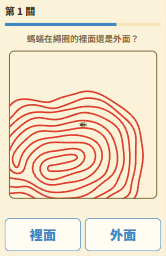
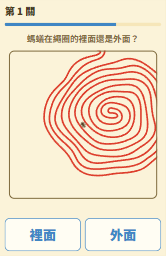
V1.57.1.0 新增 3 款（翻牌湊百、翻三湊百、瞬間識字），改版 3 款（半邊字、心跳複製、圈內圈外），反著滑整個畫面都能滑；翻牌湊十、湊百、翻三湊百加上時間限制，動態視力加上橫向模糊；全站按「返回」會先結算已經過的關卡。** 新增 3 款，共 **190 款**

Changed region(s): [[0.0602, 0.1875, 0.9639, 0.7812]]

diff --git a/GITHUB主要更新歷程.md b/GITHUB主要更新歷程.md
@@ -4,7 +4,7 @@
 > **只想看重點？讀完下面「快速看重點」三個小節就夠了**；想追某一個版本改了什麼，再往下捲到「完整版本更新紀錄」。
 > 玩法介紹、使用方式、開發工具請看 [README.md](README.md)。
 
-目前版本：**V1.56.0（2026-11-12）**　｜　從 2026-09-25 的 V0.1.0 到現在共 **92 個版本**　｜　遊戲 **187 款**
+目前版本：**V1.57.1.0（2026-11-13）**　｜　從 2026-09-25 的 V0.1.0 到現在共 **93 個版本**　｜　遊戲 **190 款**
 
 ---
 
@@ -18,7 +18,7 @@
 | 2. 題目產生器 | V1.3 ～ V1.11 | 09-26 ～ 09-30 | 「明明還記得...」改成**每一局題目都不同**的產生器，加上四大故事主軸（生日、旅遊、看病、聚餐）、跨關回想題、答錯說明與混淆類型分析。 |
 | 3. 秒反應誕生 | V1.12 ～ V1.19 | 09-30 ～ 10-07 | 新增第三個入口「秒反應」小遊戲，從 3 款長到 50 款；加上共用音效、**世界排行榜**。 |
 | 4. 爆量與社群功能 | V1.20 ～ V1.35 | 10-09 ～ 10-20 | 遊戲數 78 → 160 款；彈窗公版、全螢幕選單與分類頁籤、玩家意見、五星評價、「阿嬤都比你厲害」、**玩家帳號（暱稱＋密碼）**。 |
-| 5. 成熟營運 | V1.36 ～ V1.56 | 10-21 ～ 11-12 | **PWA（加到主畫面、離線也能玩）**、漢堡選單（設定／成績／離線管理）、後台資料分析頁、不限時的邏輯遊戲（深思篇、原創篇）、**干擾用動態背景**、動作遊戲（砲打飛機、草叢找動物、火箭回收），共 184 款（V1.43.1 刪除「按鍵搶三十」）。 |
+| 5. 成熟營運 | V1.36 ～ V1.57 | 10-21 ～ 11-13 | **PWA（加到主畫面、離線也能玩）**、漢堡選單（設定／成績／離線管理）、後台資料分析頁、不限時的邏輯遊戲（深思篇、原創篇）、**干擾用動態背景**、動作遊戲（砲打飛機、草叢找動物、火箭回收），共 190 款（V1.43.1 刪除「按鍵搶三十」）。 |
 
 ### 二、重要版本（時間軸）
 
@@ -74,6 +74,7 @@
 | **V1.54.0** | 11-11 | 依玩家意見調難度：**舉旗子**時間縮短、新增「對調」口令（一手放下、另一手同時舉起）；**門縫偷看**門縫分成上下 1～6 條、各條出發時間不同、有些從右往左、拿掉兩側咖啡色線。 |
 | **V1.55.0** | 11-12 | 依玩家意見修改 6 款：**反著滑**加入「藍色箭頭順著滑、紅色箭頭逆著滑」；**轉盤電話**每關多 1 碼、一行 10 個數字、看號碼時轉盤半透明；**心臟病**取消倒著數；**字的顏色**答對也顯示答案 2 秒；**切菜單上的**水果放大 200%、菜單框改畫面底色；**鏡中旋轉字**兩個參數改 `[第一關, 到頂]`；並重拍 6 款縮圖。 |
 | **V1.56.0** | 11-12 | 依玩家意見修改**六角著色**：三色、四色都不能再照「固定間隔」擺就解完；三色形狀不再是實心、答案挑最不像規律花樣的、預填分散到每一區並故意打破規律（唯一解是順便達成的）。 |
+| **V1.57.1.0** | 11-13 | 新增 3 款：**翻牌湊百**、**翻三湊百**（故意讓好幾組牌的尾數相同，防「只算尾數」投機）、**瞬間識字**（字閃一下，再從一排答案裡找出來）；**半邊字**改成旋轉的各種白色遮片、**心跳複製**改成 8 個圓的環＋整個畫面可點（成績意思改了）、**圈內圈外**改成指紋螺旋（螞蟻放在圓心與最外圍的正中間）；**反著滑**整個畫面都能滑；翻牌湊十、湊百、翻三湊百加上時間限制；**動態視力**加橫向動態模糊；全站按「返回」先結算已過的關卡、進榜就寫入紀錄。共 **190 款**。 |
 
 ### 三、共用系統功能一覽（依功能分類，括號是首次出現的版本）
 
@@ -95,6 +96,7 @@
 | 搜尋 | 遊戲選單最右邊的「搜尋」：輸入遊戲名稱的一部分，格子就只留下符合的遊戲。 | V1.43 |
 | 干擾用動態背景 | 19 款遊戲的背景墊一層很淡的花紋（條紋／圓圈／螺紋／棋盤／六角形／圓點），慢慢移動或旋轉，略為干擾判斷；每款自己設定從第幾關開始出現；判定、揭曉時會先收起來。 | V1.44 |
 | 推薦彈窗 | 進選單時輪流跳：阿嬤都比你厲害（被超越的遊戲）／來都來了，快開一局（沒玩過或很久沒玩的）／從從容容、游刃有餘（你最擅長的遊戲）。 | V1.25、V1.39 |
+| 按「返回」先結算 | 玩到一半按「返回」，依已經完成的關卡結算：進世界前 30 名就先跳出進榜彈窗並寫入紀錄，破個人最佳也會記下來，不會因為臨時離開就失去成績。 | V1.57.1.0 |
 
 **排行榜、帳號與社群**
 
@@ -148,7 +150,8 @@
 | V1.43.1 | 11-02 | −1 | 181 | 刪除「按鍵搶三十」 |
 | V1.45.0 | 11-05 | 3 | 184 | 動作篇：砲打飛機、草叢找動物、火箭回收 |
 | V1.46.0 | 11-05 | 2 | 186 | 泡泡掃射、分類點擊 |
-| V1.50.0 | 11-08 | 1 | **187** | 六角著色 |
+| V1.50.0 | 11-08 | 1 | 187 | 六角著色 |
+| V1.57.1.0 | 11-13 | 3 | **190** | 翻牌湊百、翻三湊百、瞬間識字 |
 
 ### 五、發佈時要記得的事（營運備忘）
 
@@ -161,8 +164,46 @@
 ---
 
 ## 完整版本更新紀錄
-### V1.57.0（2026-11-13）
-修改小遊戲。
+
+### V1.57.1.0（2026-11-13）
+**新增 3 款（翻牌湊百、翻三湊百、瞬間識字），改版 3 款（半邊字、心跳複製、圈內圈外），反著滑整個畫面都能滑；翻牌湊十、湊百、翻三湊百加上時間限制，動態視力加上橫向模糊；全站按「返回」會先結算已經過的關卡。** 新增 3 款，共 **190 款**（原本 187 款）。這個版本涵蓋 V1.56.0 之後的全部改動（V1.57.0 提交時只寫了「修改小遊戲」，沒有詳細紀錄，所以一併記在這裡）。
+
+- **★ 你要做的事**：
+  - 發佈時 `version.json` 要升到 1.57.1.0（Service Worker 版本相同就直接用備份，沒升版號回訪玩家拿不到新檔）。這次的版號是四段（以前都是三段）；想改成 1.57.1，改 `version.json` 和這份文件的標題就好。
+  - **新增了 3 款遊戲**：到 Supabase 的 SQL Editor 重新執行整份 `supabase/MF_leaderboard.sql`（可重複執行，既有成績不受影響），不然這 3 款的成績送不上榜。
+  - **心跳複製的成績意思變了**（原本是「撐過幾拍」，現在是「正確點擊幾下」）：舊榜單的高分要清掉，見 [`note/世界排行榜說明.md`](note/世界排行榜說明.md)（裡面心跳複製那一列還是舊寫法，我沒改）。半邊字、圈內圈外、反著滑的成績意思沒變，但規則或難度變了，舊高分之後會比較難超過，要不要清由你決定。
+- **新遊戲・翻牌湊百**（`flipcent`，玩家意見：翻牌湊十的進階版，兩張加起來 100）：
+  - 數字牌 1～99 蓋著排成方陣，每次翻兩張，**加起來 100 就消掉**，不是就蓋回去；翻牌次數有上限（「完美記憶策略」要翻的次數 ＋ 寬限 `SLACK`）。
+  - **防「只算尾數」的投機**：兩張加起來是 100，尾數一定是 1＋9、2＋8、3＋7、4＋6、5＋5、0＋0，只看尾數就猜得到誰跟誰一組。所以牌多的時候故意讓好幾組的尾數相同（例如 43＋57、63＋37、23＋77，只看尾數會湊到 63＋57＝120）。參數 `GROUP`＝每一種尾數組放幾組牌，第 1 關 1、到頂 8；同一個尾數組裡，十位數也要加起來才分得出來（`makePairDeck`）。
+  - 6 張起每關加 2 張，最多 48 張；其餘規則同翻牌湊十（盡量不讓湊成 100 的兩張相鄰 `KEEP_ADJ_P`、翻錯露出 `SHOW_MS`）。
+- **新遊戲・翻三湊百**（`flip3cent`）：規則同上，但**每次翻三張、三張加起來 100**。非常困難：沒辦法只靠尾數投機，而且一次要記三張，**翻錯露出的時間是翻牌湊百的三倍**（`SHOW_K` 3，1.5 → 4.5 秒）。出題保證整副牌裡「三張加起來 100」的組合只有預定的那幾組（`makeTripleDeck`；不然玩家翻到碰巧湊成 100 的別組，消掉之後剩下的牌可能再也湊不出 100），這個保證在 24 張以上做不到，所以最多 18 張（6 組）。兩款共用新檔 `js/flipsum_core.js`（`Reaction.flipSum`）。
+- **翻牌湊十、湊百、翻三湊百：時間限制、牌高參數**（玩家意見）：
+  - **每關有時間限制**，給得很寬鬆：`TIME_S`，第 1 關 1 分鐘（60 秒），隨關卡增加到第 30 關——翻牌湊十到 240 秒，湊百與翻三湊百到 300 秒。時間到還沒消完就失敗（顯示「時間到了！」，把剩下的牌翻開）。
+  - **答案格子的高度是參數**：`CARD_H`（牌高是牌寬的幾倍，預設 0.95；翻三湊百你目前調成 0.6）；牌多、列數多放不下時，會自動縮到所有列都放得進畫面。順手修掉翻三湊百 `STAGES` 多出的逗號（第 13 關起會當掉）。
+- **新遊戲・瞬間識字**（`blinkchar`，玩家意見）：白底上，在開局 3 秒內的某個不定時刻（`WAIT_S`），隨機位置閃出一個黑色中文字，字消失之後下方出現答案按鈕，點出剛剛閃過的是哪個字。難度參數格式都是 `[第 1 關, 到頂]`：字亮多久 `FLASH_MS`（到頂只亮 1 個畫面更新）、字的濃淡 `OPACITY`、字的大小 `SIZE`（畫面寬度的倍數）、答案按鈕數 `OPTIONS`、字的筆劃上限 `STROKES_MAX`、作答限時 `ANSWER_S`；選項優先挑「長得像」的字（共用字庫 `SimilarChars`）。
+  - **版面**（玩家意見）：題目框固定是正方形（邊長＝畫面寬度，`ZONE_RATIO`）；答案按鈕寬度固定是畫面寬度的 1/6（`OPT_COLS`），按鈕多了就換排、高度跟著調（盡量維持正方形）；作答之後，題目框的說明文字降到題目框下緣（`MSG_H`），不會壓到揭曉的正確答案字。
+- **半邊字**（`halfchar`，改規則）：原本是「用 CSS 遮住字的一半」，改成**不同形狀的白色遮片繞著字旋轉**（畫在 canvas）：切口比薩、條紋、黑白棋盤、波紋、螺旋、4～49 宮格的 emoji 方陣；每種形狀從第幾題開始出現是 `SHAPE_FROM`。難度三個因素：**空隙大小 `OPEN`**（露出越少越難）、**旋轉速度 `SPEED`**（太慢，空隙停在原地慢慢等它掃過就看全；太快，眼睛會把畫面疊起來反而認得出來，所以只加到「最難的速度」，每題上下隨機 `SPEED_JITTER`、方向也隨機）、**遮片五彩繽紛 `COLOR_P`**；emoji 方陣的格數 `EMOJI_N`。題庫、選項與揭曉說明「相似的是 X，關鍵是 Y」沿用。
+  - **題目字放大**（玩家意見）：字是畫面寬度的 90%（`CHAR_W`），畫布跟著撐大；標題兼做提示、時間條與選項的空隙縮小。
+  - **比薩改成多個切口**（玩家意見，`PIZZA_CUTS` 3 → 6 個）：總空隙平均分給每個切口、切口平均分布在圓盤上，不會因為轉速慢、只有一個窄切口慢慢掃過，而看不清全貌。
+- **心跳複製**（`heartbeat`，改規則；**成績意思改了**）：畫面上 8 個白色圓排成一圈（整圈寬度是畫面的 90%），每一拍圓依序亮起顏色：**藍色＋手指圖示＝要點**（點對變綠色）、**橘色＝不能點**（點了變紅色）。**點擊範圍是整個遊戲畫面**（寫著「可點擊畫面任何位置」）；成績＝正確點擊次數。參數：藍色比例 `BLUE_P`、拍子間隔 `INT_START` → `INT_END`。
+  - **間隔只有藍色的拍才縮短**（玩家意見）：橘色的拍不會讓間隔變短，一直出橘色，頻率就一直不變（`RAMP_BLUES`＝縮到最快所需的藍色拍數，預設 60）。
+  - **環形往上移**（玩家意見，`RING_Y` 0.36）：避免手指遮住環的下方；想再往上，調小它。
+- **圈內圈外**（`inout`，重做）：玩家意見——原本的迷宮有漏洞（從外圍找得到一條直線切進去，很快就能判斷內外），改成**指紋螺旋**，而且不是一路往同一個方向繞，有機會**急速迴轉**成反向螺旋來迷惑玩家。
+  - **繩圈是一條很粗的螺旋帶的邊界**（`makeSpine` 造中心線、`ropePolygon` 加寬）：帶子裡面是「繩圈裡面」，帶子之間的縫是「外面」；帶寬與縫寬各自忽粗忽細（`VARIANCE`），光看一小塊分不出哪個是帶子。
+  - **貼著前一段繩子長**（玩家意見：繩子之間有時空隙很寬，尤其起點附近常空一大塊）：從一小段直線（`SEED_LEN`）開始，每一步沿著已經畫好的繩子外緣前進、保持固定縫寬，相鄰兩圈的距離約 0.9～1.15 圈距，沒有大片空白。每繞完一圈有 `REVERSE_P` 的機會做半圓形髮夾彎掉頭，整條再微微扭曲（`WARP_A`）。
+  - **螞蟻在畫面正中央，放在「圓心與最外圍的正中間」**（玩家意見：讓玩家從最外面或最中央開始數都比較難）：從螞蟻往圓心要穿過 b 條線、往最近的外面最少要穿過 a 條線，b ÷ (a ＋ b) 落在 `ANT_DEPTH`（`[0.4, 0.6]`）；位置繞著圓心隨機，在帶子上、在縫裡各一半。量測：位置平均 0.50，往外與往圓心要數的線第 1 關約 4.8 對 5.2 條、第 30 關約 12.3 對 13.1 條。（中間有一版我誤把「正中央」做成「繩子長度的一半」，結果螞蟻永遠在偏外的第三圈、而且一定在圈內，已改掉；用線數而不是距離算，是因為指紋有迴轉時不是正圓，量距離螞蟻會偏向一邊。）
+  - **沒有捷徑**：從螞蟻往任何方向畫直線，至少穿過 `RAY_MIN` 條線。螞蟻離對面的外面比較遠，遠的一邊裁掉一點（`VIEW_FRAC`），但最近的外面一定看得到（`VIEW_MARGIN`）。揭曉時繩圈裡面整條塗淡綠色。
+- **反著滑**（`swipecopy`，玩家意見）：
+  - **整個遊戲畫面都可以滑**（以前只有九宮格裡面）；手指滑過的路徑畫成白色粗線，路徑結尾有箭頭（起點指向終點），**箭頭平的那一端畫在軌跡末端**、尖端往外伸。
+  - **答錯停 3 秒**（`FAIL_MS`）：九宮格、箭頭、你滑的路徑都不遮住；原本直式的紅框解說圖改成橫式放在九宮格正下方，失敗文字再往下放，讓玩家看清楚自己錯在哪。
+  - **「第 N 關」與時間條的上下空隙縮小**，空間留給九宮格下方的說明文字。
+- **動態視力**（`kinetic`，玩家問「能不能只有橫向模糊」，確認可行後套用）：火車開過去時，**整列火車（車身、窗戶、號碼貼紙、干擾貼紙）一起橫向動態模糊**——用 SVG 濾鏡 `feGaussianBlur`，`stdDeviation` 填「橫向 0」，只糊水平方向；模糊半徑 `BLUR_PX`（預設 `[1.5, 6]` px，第 1 關 → 到頂；填 `[0, 0]` 就沒有模糊）。火車開走、出現選項之後拿掉模糊，揭曉倒車時是清楚的。玩法說明裡過期的「0.5 秒」改成目前參數的 0.25 秒。
+- **全站「返回」先結算**（玩家意見：某些遊戲沒限時或限時很長，玩家臨時有事按「返回」就失去剛剛的最高紀錄，不公平）：
+  - 玩到一半按「返回」，系統依「目前已經完成的關卡」結算：**進了世界前 30 名**，就先跳出進榜彈窗（寫著「你目前的成績已經記下來了」，按鈕「離開遊戲」）並寫入紀錄；沒進榜但破了個人最佳，就安靜地記下個人最佳；都沒有就直接離開。
+  - **全部遊戲都處理了**：用闖關骨架 `kit.run` 的遊戲，由 `reaction_kit2.js` 預設的 `Reaction.onLeave` 處理（分數＝已通過的關卡數）；自己寫流程的 8 款（`invoice`、`landolt`、`polyrhythm`、`rainbow`、`seven`、`teacher`、`shapes`、`spot`）各自註冊 `Reaction.leaveScore`。共用的程式：`kit.settleOnLeave`、`kit.leaveVerdict`（`reaction_kit.js`）、`Leaderboard.wouldQualify`（用本機快取的榜單馬上判斷會不會進榜）。
+- **縮圖重拍**（`img/reaction/`）：新增的翻牌湊百、翻三湊百、瞬間識字，以及半邊字、心跳複製、圈內圈外。README 的遊戲列同步（新增 3 列、改寫心跳複製等的玩法欄位）。
+- **測試**：新增 `t_flipcent`、`t_flip3cent`、`t_blinkchar`、`t_leaveback`（106 項），以及瀏覽器實測 `browser_flipsum`、`browser_blinkchar`、`browser_halfchar`、`browser_heartbeat`、`browser_inout`（24 項）、`browser_swipecopy`、`browser_leaveback`（20 項）；`t_flipten`、`t_halfchar`、`t_heartbeat`、`t_inout`、`t_kinetic`、`t_swipecopy` 等跟著改。被你手調過的參數弄過期的舊斷言，我只改了那幾條。`run_all.js` 目前還有 27 支測試失敗，都是你手調常數或環境造成的舊問題（例如 `t_halfchar` 的條紋比例取樣），跟這個版本的改動無關。
+- **沒驗證到**：真人手感——圈內圈外的螞蟻位置是用「要數的線數」量出來的，玩起來是不是覺得在正中間，要玩家回饋；半邊字的轉速、瞬間識字字亮的時間、心跳複製的節奏，電腦只能量不能玩；動態視力的橫向模糊在 Safari 實機的順暢度沒測。
 
 ### V1.56.0（2026-11-12）
 **依玩家意見修改六角著色：三色、四色都不能再靠「照固定間隔擺」就解完。** 沒有新增、刪除遊戲（仍是 187 款）。
